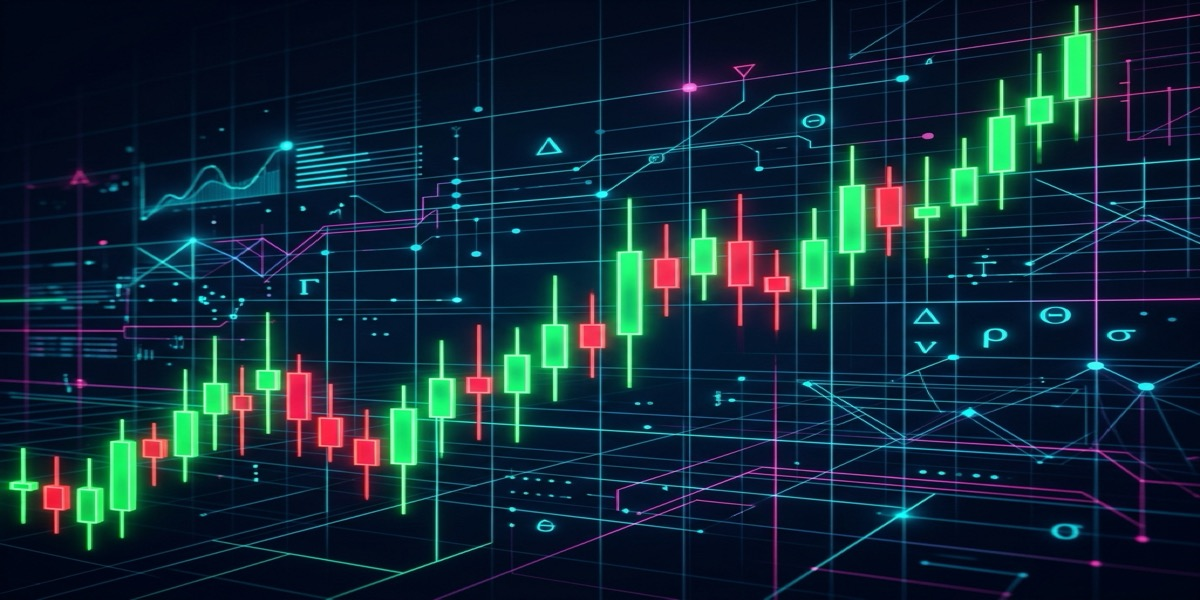
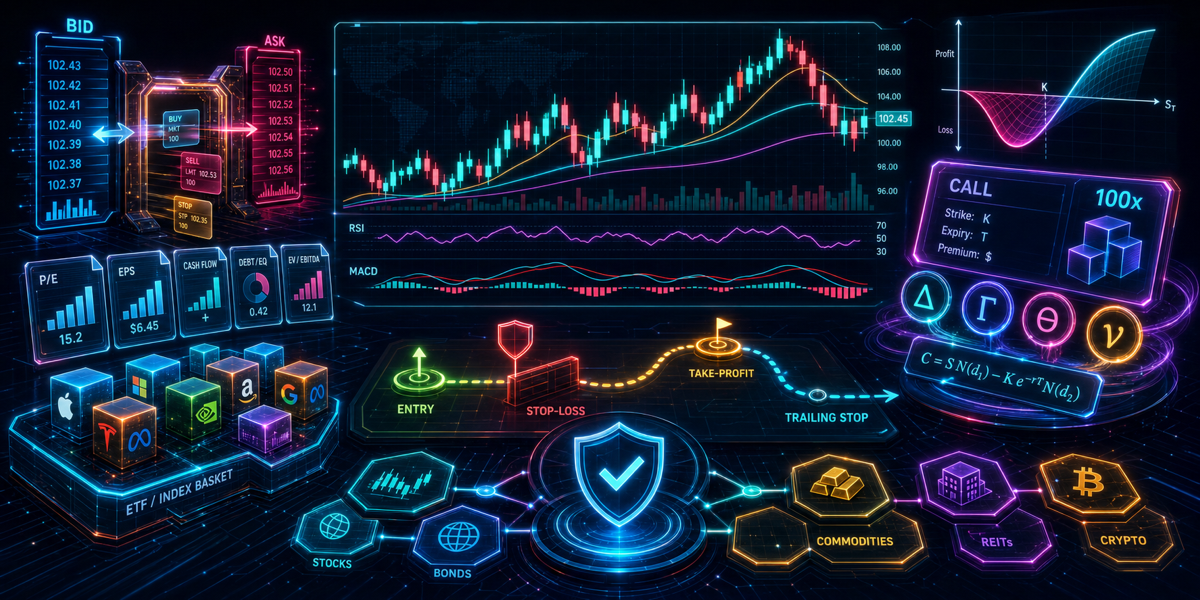
Update Image

diff --git a/_posts/2026/2026-06-05-trading-basics.md b/_posts/2026/2026-06-05-trading-basics.md
@@ -12,7 +12,7 @@ In trading, there are two primary schools of thought:
 1. **Fundamental Analysis:** Looking at a company's financial health to determine *what* to buy.
 2. **Technical Analysis:** Analyzing price trends and charts to determine *when* to buy or sell.
 
-But before we dive into analysis, we need to understand how the market actually works.
+But before we dive into analysis, we need to understand how the market actually works, what "the market" means, and how a trade moves from idea to execution.
 
 + toc
 {:toc}
@@ -29,6 +29,32 @@ Beginners often rush to learn chart patterns before understanding how orders exe
     *   *Market Order:* Executes immediately at the best available current price. (Guarantees execution, but not price).
     *   *Limit Order:* Executes only at a specific price or better. (Guarantees price, but might not execute if the price never reaches your limit).
     *   *Stop Order:* Becomes a market order once the stock hits a specified price. Commonly used to limit losses.
+    *   *Stop-Limit Order:* Becomes a limit order once triggered. This gives more price control, but the order might not fill.
+
+### The Lifecycle of a Trade
+
+A trade is not just a buy button. Before entering, you should define:
+
+*   **Entry:** The price or signal that justifies opening the position.
+*   **Exit:** The condition that tells you the trade idea is complete or invalid.
+*   **Stop-Loss:** A defensive exit that limits downside if the market moves against you.
+*   **Take-Profit:** A planned exit that locks in gains when the trade reaches your target.
+*   **Trailing Stop:** A stop that moves with the price, helping protect gains while leaving room for a trend to continue.
+
+### Trading Time Horizons
+
+Different time horizons create different risks and costs:
+
+*   **Investing:** Holding for years, usually based on business fundamentals, valuation, and long-term compounding.
+*   **Swing Trading:** Holding for days or weeks to capture medium-term price moves.
+*   **Day Trading:** Opening and closing positions within the same trading day. Execution quality and costs matter a lot.
+*   **Scalping:** Very short-term trading that attempts to capture tiny moves. Spreads, slippage, and discipline dominate the outcome.
+
+### Market, Index, Stock, and Fund
+
+When people say "the market," they often mean a broad index such as the **S&P 500**, **NASDAQ Composite**, or **Dow Jones Industrial Average**. An index tracks a basket of stocks; it is not the same as one individual company.
+
+You also do not have to start by picking single stocks. **ETFs (Exchange-Traded Funds)** and index funds let you buy diversified exposure to a basket of companies, sectors, bonds, commodities, or broad markets. For many beginners, understanding diversified funds is just as important as learning individual stock analysis.
 
 ## Fundamental Analysis: Decoding Stocks & Financial Reports
 
@@ -45,6 +71,7 @@ Here are some fundamental metrics you need to know, along with their original fu
 *   **P/E Ratio (Price-to-Earnings Ratio):** The ratio of a company's share price to its earnings per share. 
 *   **EPS (Earnings Per Share):** The company's net profit divided by the number of outstanding shares.
 *   **Market Capitalization:** The total market value of a company's outstanding shares of stock.
+*   **Enterprise Value (EV):** A broader valuation measure that includes market cap, debt, and cash. It helps compare companies with different capital structures.
 *   **P/B Ratio (Price-to-Book Ratio):** Compares a firm's market value to its book value.
 *   **ROE (Return on Equity):** Net income divided by shareholders' equity.
 *   **Revenue Growth & Profit Margin:** How fast is the company growing its sales, and what percentage of that sales turns into pure profit?
@@ -70,6 +97,7 @@ info = ticker.info
 print(f"P/E Ratio: {info.get('trailingPE')}")
 print(f"EPS: {info.get('trailingEps')}")
 print(f"Market Cap: {info.get('marketCap')}")
+print(f"Enterprise Value: {info.get('enterpriseValue')}")
 print(f"Revenue Growth: {info.get('revenueGrowth')}")
 print(f"Profit Margin: {info.get('profitMargins')}")
 print(f"Debt-to-Equity: {info.get('debtToEquity')}")
@@ -143,11 +171,13 @@ Options are complex derivatives that give you the right, but not the obligation,
 ### Options Primitives
 
 Before trading options, you must understand these core concepts:
+*   **Contract Size:** One standard US equity option contract usually controls **100 shares** of the underlying stock.
 *   **Premium:** The price you pay to buy the option contract.
 *   **Strike Price:** The agreed-upon price at which you can buy/sell the underlying stock.
 *   **Expiration:** The date the contract becomes void.
 *   **Moneyness (ITM / ATM / OTM):**
     *   *In-the-Money (ITM):* The option has intrinsic value (e.g., a Call strike is below the current stock price).
+    *   *At-the-Money (ATM):* The strike price is close to the current stock price.
     *   *Out-of-the-Money (OTM):* The option has no intrinsic value, only time value.
 *   **Intrinsic vs. Extrinsic Value:** An option's premium is the sum of its Intrinsic Value (real value if exercised right now) and Extrinsic Value (time and volatility value).
 *   **Implied vs. Historical Volatility:** Historical is how much the stock *actually* moved in the past. Implied Volatility (IV) is how much the market *expects* it to move in the future. High IV makes options expensive.
@@ -204,7 +234,7 @@ No trading strategy works without risk management. FINRA and the SEC emphasize t
 *   **Risk/Reward Ratio:** Are you risking $100 to make $20? That's a bad ratio. Professional traders aim for at least 1:2 or 1:3 risk/reward.
 *   **Maximum Loss Per Trade:** Never risk your entire portfolio on a single trade. A common rule is risking no more than 1-2% of your capital per trade.
 *   **Expectancy:** Your win rate combined with your risk/reward. You can have a 40% win rate and still be wildly profitable if your winners are 3x the size of your losers.
-*   **Diversification & Asset Allocation:** Don't put all your eggs in one basket. Spreading capital across different sectors or asset classes limits systemic risk.
+*   **Diversification & Asset Allocation:** Don't put all your eggs in one basket. Spreading capital across different companies, sectors, or asset classes can reduce company-specific risk. It cannot eliminate broad market risk.
 *   **Leverage and Margin Risk:** Trading on margin means borrowing money from your broker. It magnifies gains but also magnifies losses. You can lose more than your initial deposit.
 
 ## Trading Costs and Taxes
@@ -213,7 +243,7 @@ Finally, a hidden killer of beginner accounts is the cost of doing business.
 
 *   **Commissions & Fees:** While many brokers offer "zero commission" stock trading, options contracts usually still carry fees per contract.
 *   **Spread Cost:** As mentioned in Market Mechanics, crossing the bid-ask spread constantly will drain your account.
-*   **Taxes:** If you hold an asset for less than a year in the US, profits are taxed as **Short-Term Capital Gains**, which are much higher than Long-Term rates. 
+*   **Taxes:** If you hold an asset for less than a year in the US, profits are usually taxed as **Short-Term Capital Gains**, which are often higher than Long-Term Capital Gains rates. Exact treatment depends on your income, account type, asset, and jurisdiction.
 *   **The Trap:** Frequent day trading can lose money even when your market thesis is directionally right, simply due to the accumulation of spreads, fees, and short-term taxes (death by a thousand cuts).
 
 ## Conclusion